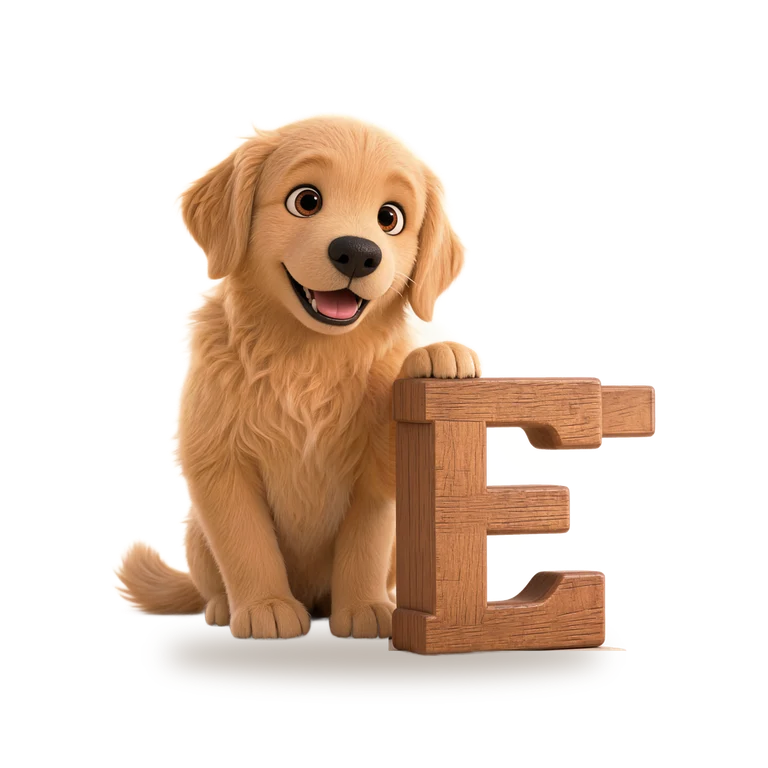
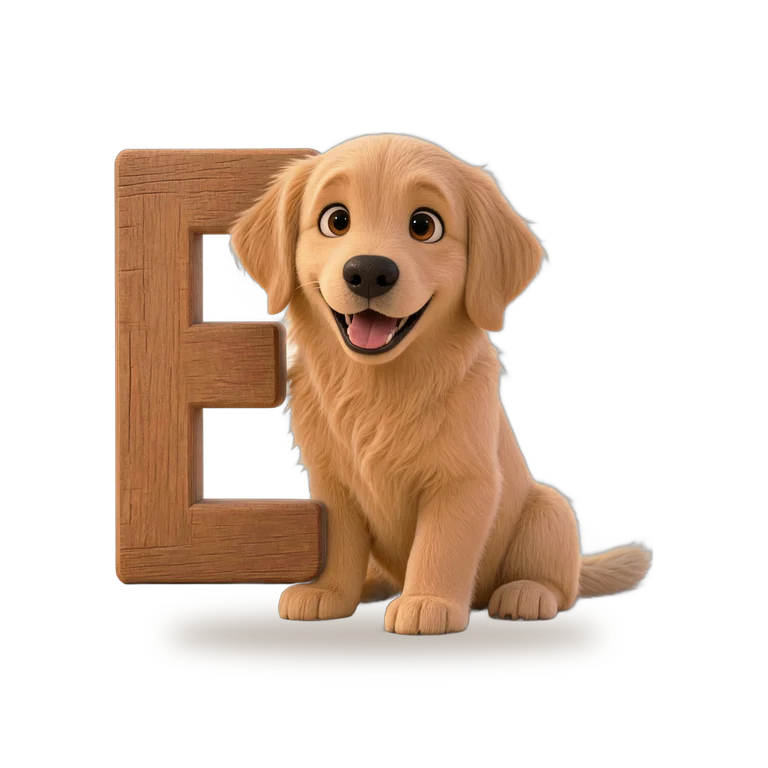
letter post: use alt1 Lucy for V T R E, re-cut, new redo-sheet + preview

diff --git a/letter-post/MANIFEST.md b/letter-post/MANIFEST.md
@@ -10,7 +10,7 @@ Credits: 37 generations x 212.1 = 7,847.7.
 | B | cutout/lucy-letter-b.webp | raw/B-final.png | pass: test1 B-2 (reused) |
 | C | cutout/lucy-letter-c.webp | raw/C-final.png | pass: C-try1 |
 | D | cutout/lucy-letter-d.webp | raw/D-final.png | pass: redo2-try1 (v1 D blocked her body). Letter keyed in cutout (v1 kept: raw/D-final-v1.png, cutout/old-v1/) |
-| E | cutout/lucy-letter-e.webp | raw/E-final.png | pass: redo2-try1 (v1 E had a stick/stub, hand-restored wood). Letter keyed in cutout (v1 kept: raw/E-final-v1.png, cutout/old-v1/) |
+| E | cutout/lucy-letter-e.webp | raw/E-final.png | pass: redo2-alt1, clean 3-bar E, no stick. Other run pick kept: raw/E-final-redo2pick.png (v1 kept: raw/E-final-v1.png, cutout/old-v1/) |
 | F | cutout/lucy-letter-f.webp | raw/F-final.png | pass: F-try3 (try1 E-like shape, try2 no letter). Stray fur at right edge painted out before cutout |
 | G | cutout/lucy-letter-g.webp | raw/G-final.png | pass: G-try1 |
 | H | cutout/lucy-letter-h.webp | raw/H-final.png | pass: H-try1 |
@@ -23,11 +23,11 @@ Credits: 37 generations x 212.1 = 7,847.7.
 | O | cutout/lucy-letter-o.webp | raw/O-final.png | pass: O-try1; Lucy sits inside the O so she looks a bit smaller in the circle |
 | P | cutout/lucy-letter-p.webp | raw/P-final.png | pass: P-try1 |
 | Q | cutout/lucy-letter-q.webp | raw/Q-final.png | pass: Q-try2 (try1 tiny/garbled) |
-| R | cutout/lucy-letter-r.webp | raw/R-final.png | pass: redo2-try3, clean R in front, medium size (try1 no letter, try2 R behind her) (v1 kept: raw/R-final-v1.png, cutout/old-v1/) |
+| R | cutout/lucy-letter-r.webp | raw/R-final.png | pass: redo2-alt1, big clean R beside her. Other run pick kept: raw/R-final-redo2pick.png (v1 kept: raw/R-final-v1.png, cutout/old-v1/) |
 | S | cutout/lucy-letter-s.webp | raw/S-final.png | pass: S-try1 |
-| T | cutout/lucy-letter-t.webp | raw/T-final.png | ok: redo2-try2, T low in front, top bar a bit off-center (try1 T behind her, try3 T like a hat) (v1 kept: raw/T-final-v1.png, cutout/old-v1/) |
+| T | cutout/lucy-letter-t.webp | raw/T-final.png | ok: redo2-alt1, T beside her, top bar touches her ear; tail restored in cutout (KEY). Other run pick kept: raw/T-final-redo2pick.png (v1 kept: raw/T-final-v1.png, cutout/old-v1/) |
 | U | cutout/lucy-letter-u.webp | raw/U-final.png | pass: U-try1; stray object at left edge removed in cutout |
-| V | cutout/lucy-letter-v.webp | raw/V-final.png | weak: redo2-try1, V floats/tilts by her face (try2 no letter, try3 cropped) (v1 kept: raw/V-final-v1.png, cutout/old-v1/) |
+| V | cutout/lucy-letter-v.webp | raw/V-final.png | pass: redo2-alt1 (parallel run), clean V on the floor beside her; tail restored in cutout (KEY). Other run pick kept: raw/V-final-redo2pick.png (v1 kept: raw/V-final-v1.png, cutout/old-v1/) |
 | W | cutout/lucy-letter-w.webp | raw/W-final.png | flag: W-try2 CROPPED: lower half only (the full image had a 2nd floating Lucy head; try1 had a room background and 3 Vs). Lucy is lying down here. FLAG: weakest; redo if Bradley wants |
 | X | cutout/lucy-letter-x.webp | raw/X-final.png | flag: X-try3 (try1 mangled, try2 two puppies). X is partly behind her paw but reads as X. FLAG: check |
 | Y | cutout/lucy-letter-y.webp | raw/Y-final.png | pass: redo2-try2 (v1 Y overlapped her; try1 letter behind her read as V) (v1 kept: raw/Y-final-v1.png, cutout/old-v1/) |
@@ -35,3 +35,6 @@ Credits: 37 generations x 212.1 = 7,847.7.
 
 ## Redo 2 (2026-10-31, about 12:40 to 1:40 am CT): Y V T R N D E
 Bradley t770u: these were off. New raws raw/<X>-redo2-try1..3.png, prompts p4/, gens gens-redo3-try*.json. 16 generations x 212.1 = 3,393.6 credits. Old vs new: redo-sheet.jpg.
+
+Final picks (Redo 2): Y = redo2-try2, N = redo2-try2 (weak), D = redo2-try1 (other run); V, T, R, E = redo2-alt1 (second, parallel run: raw/<X>-redo2-alt1.png, prompts p4-alt1/, gens gens-redo3-alt1.json).
+Credits, both runs: 3,393.6 + 1,484.7 = 4,878.3 (over the 3,500 cap because two runs overlapped). Note: alt1 overwrote p4/<X>.txt + p4/prompts.json (the try1 prompts) and the 7 node prompts on the flow; try2/3 prompts are in p4/prompts-try2.json / -try3.json.
